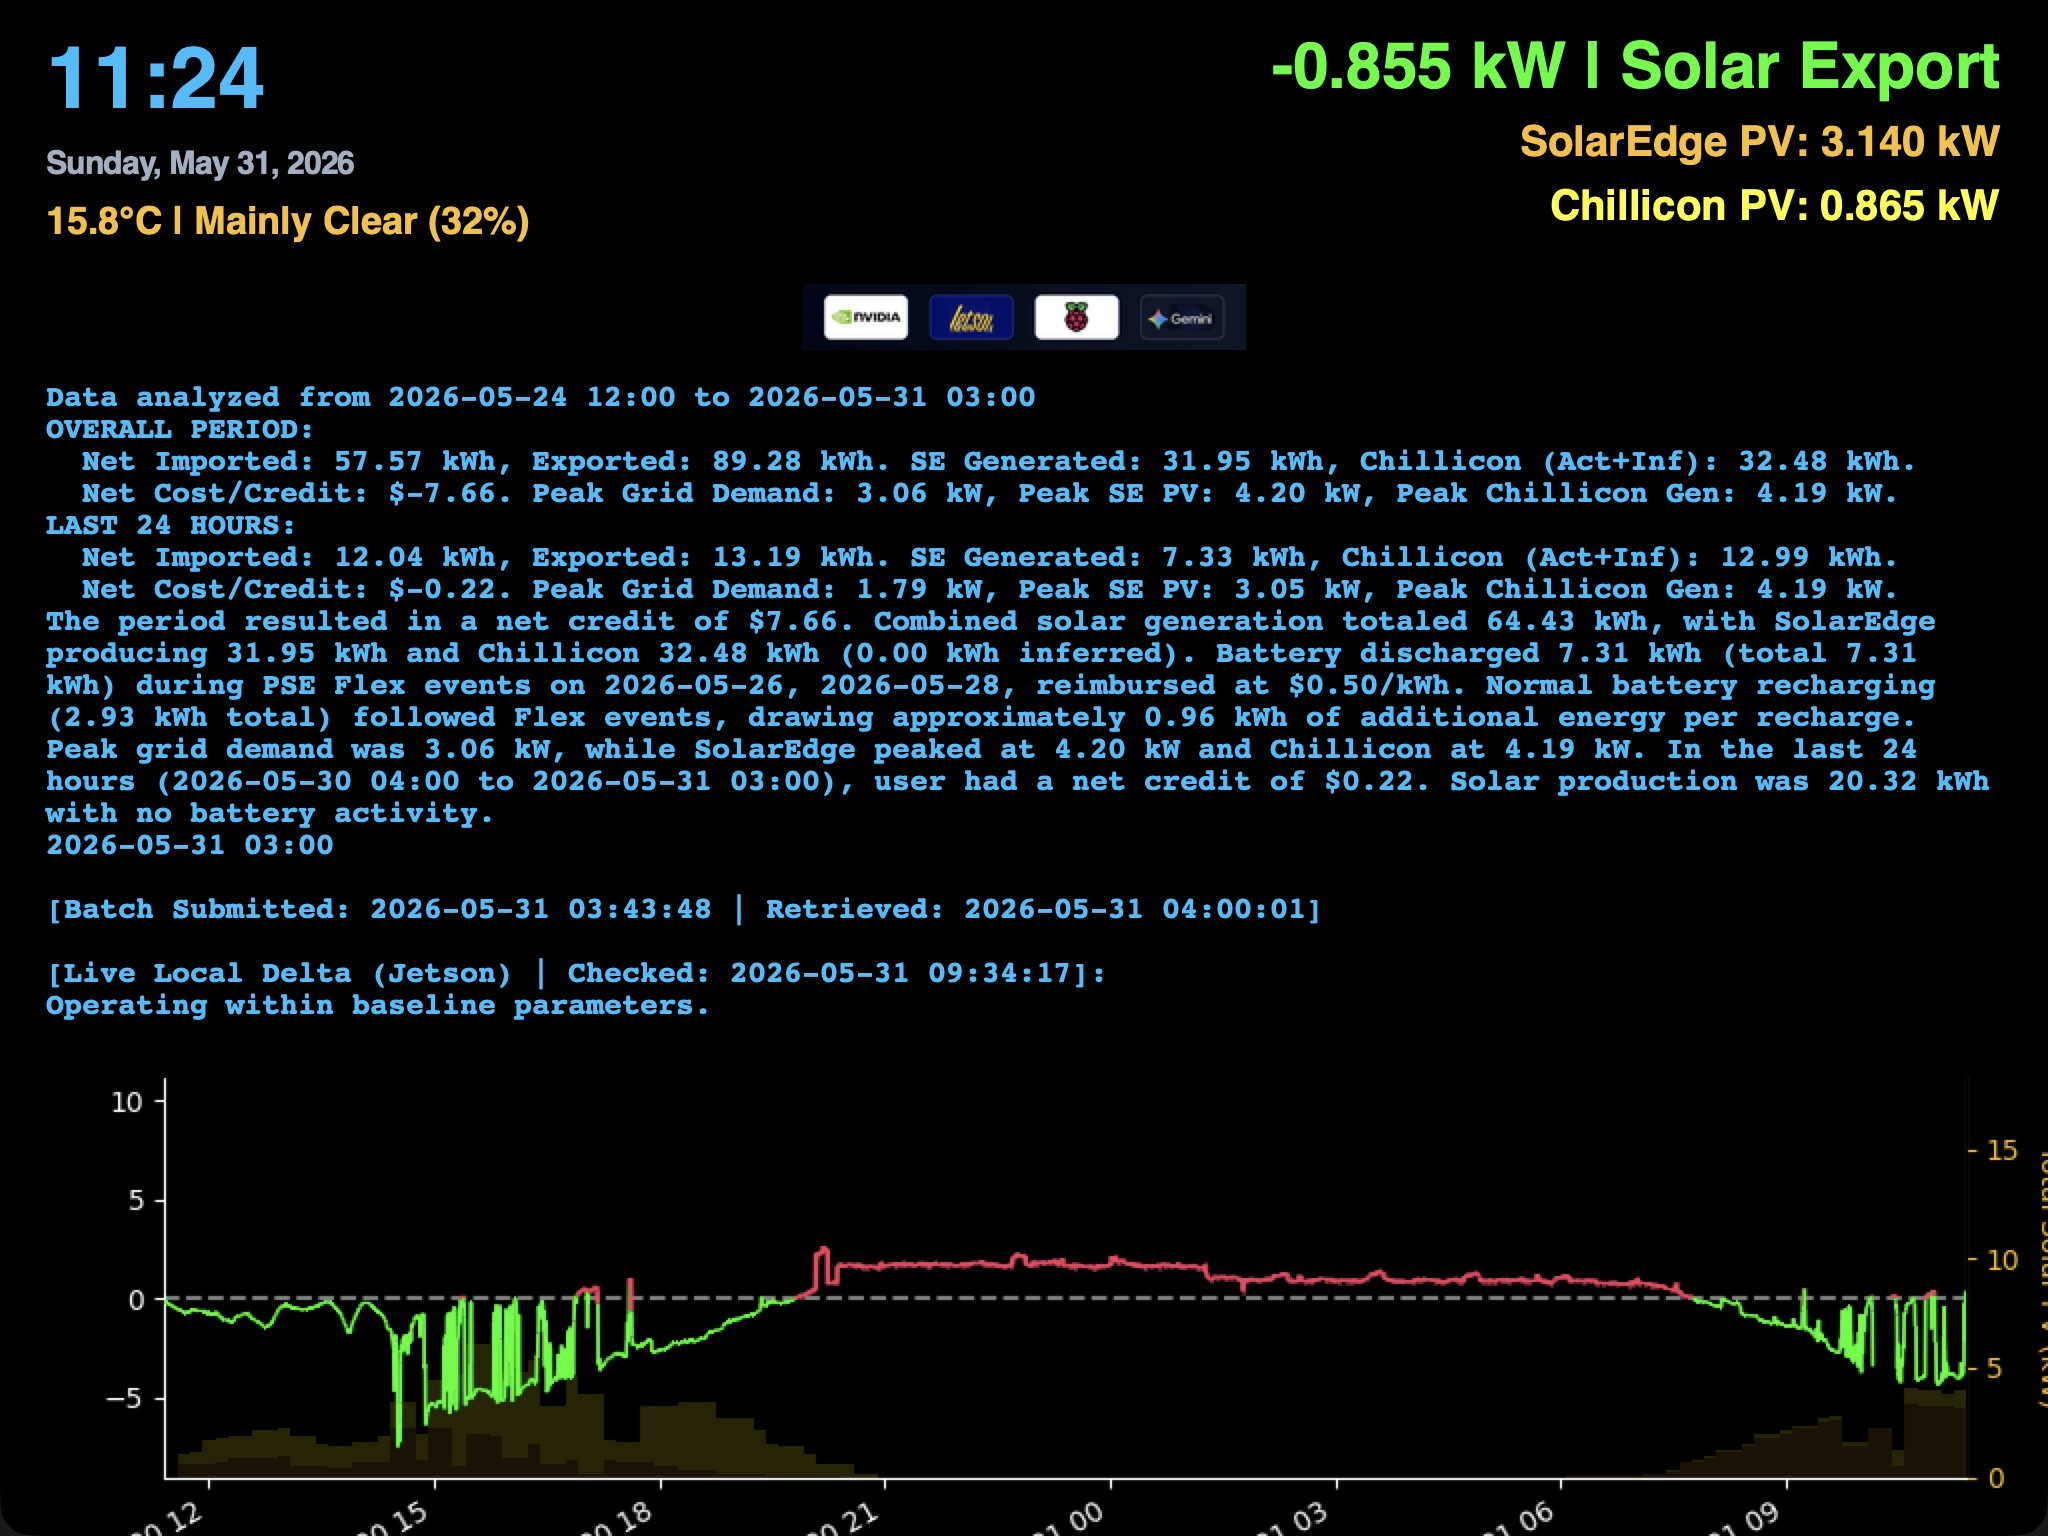
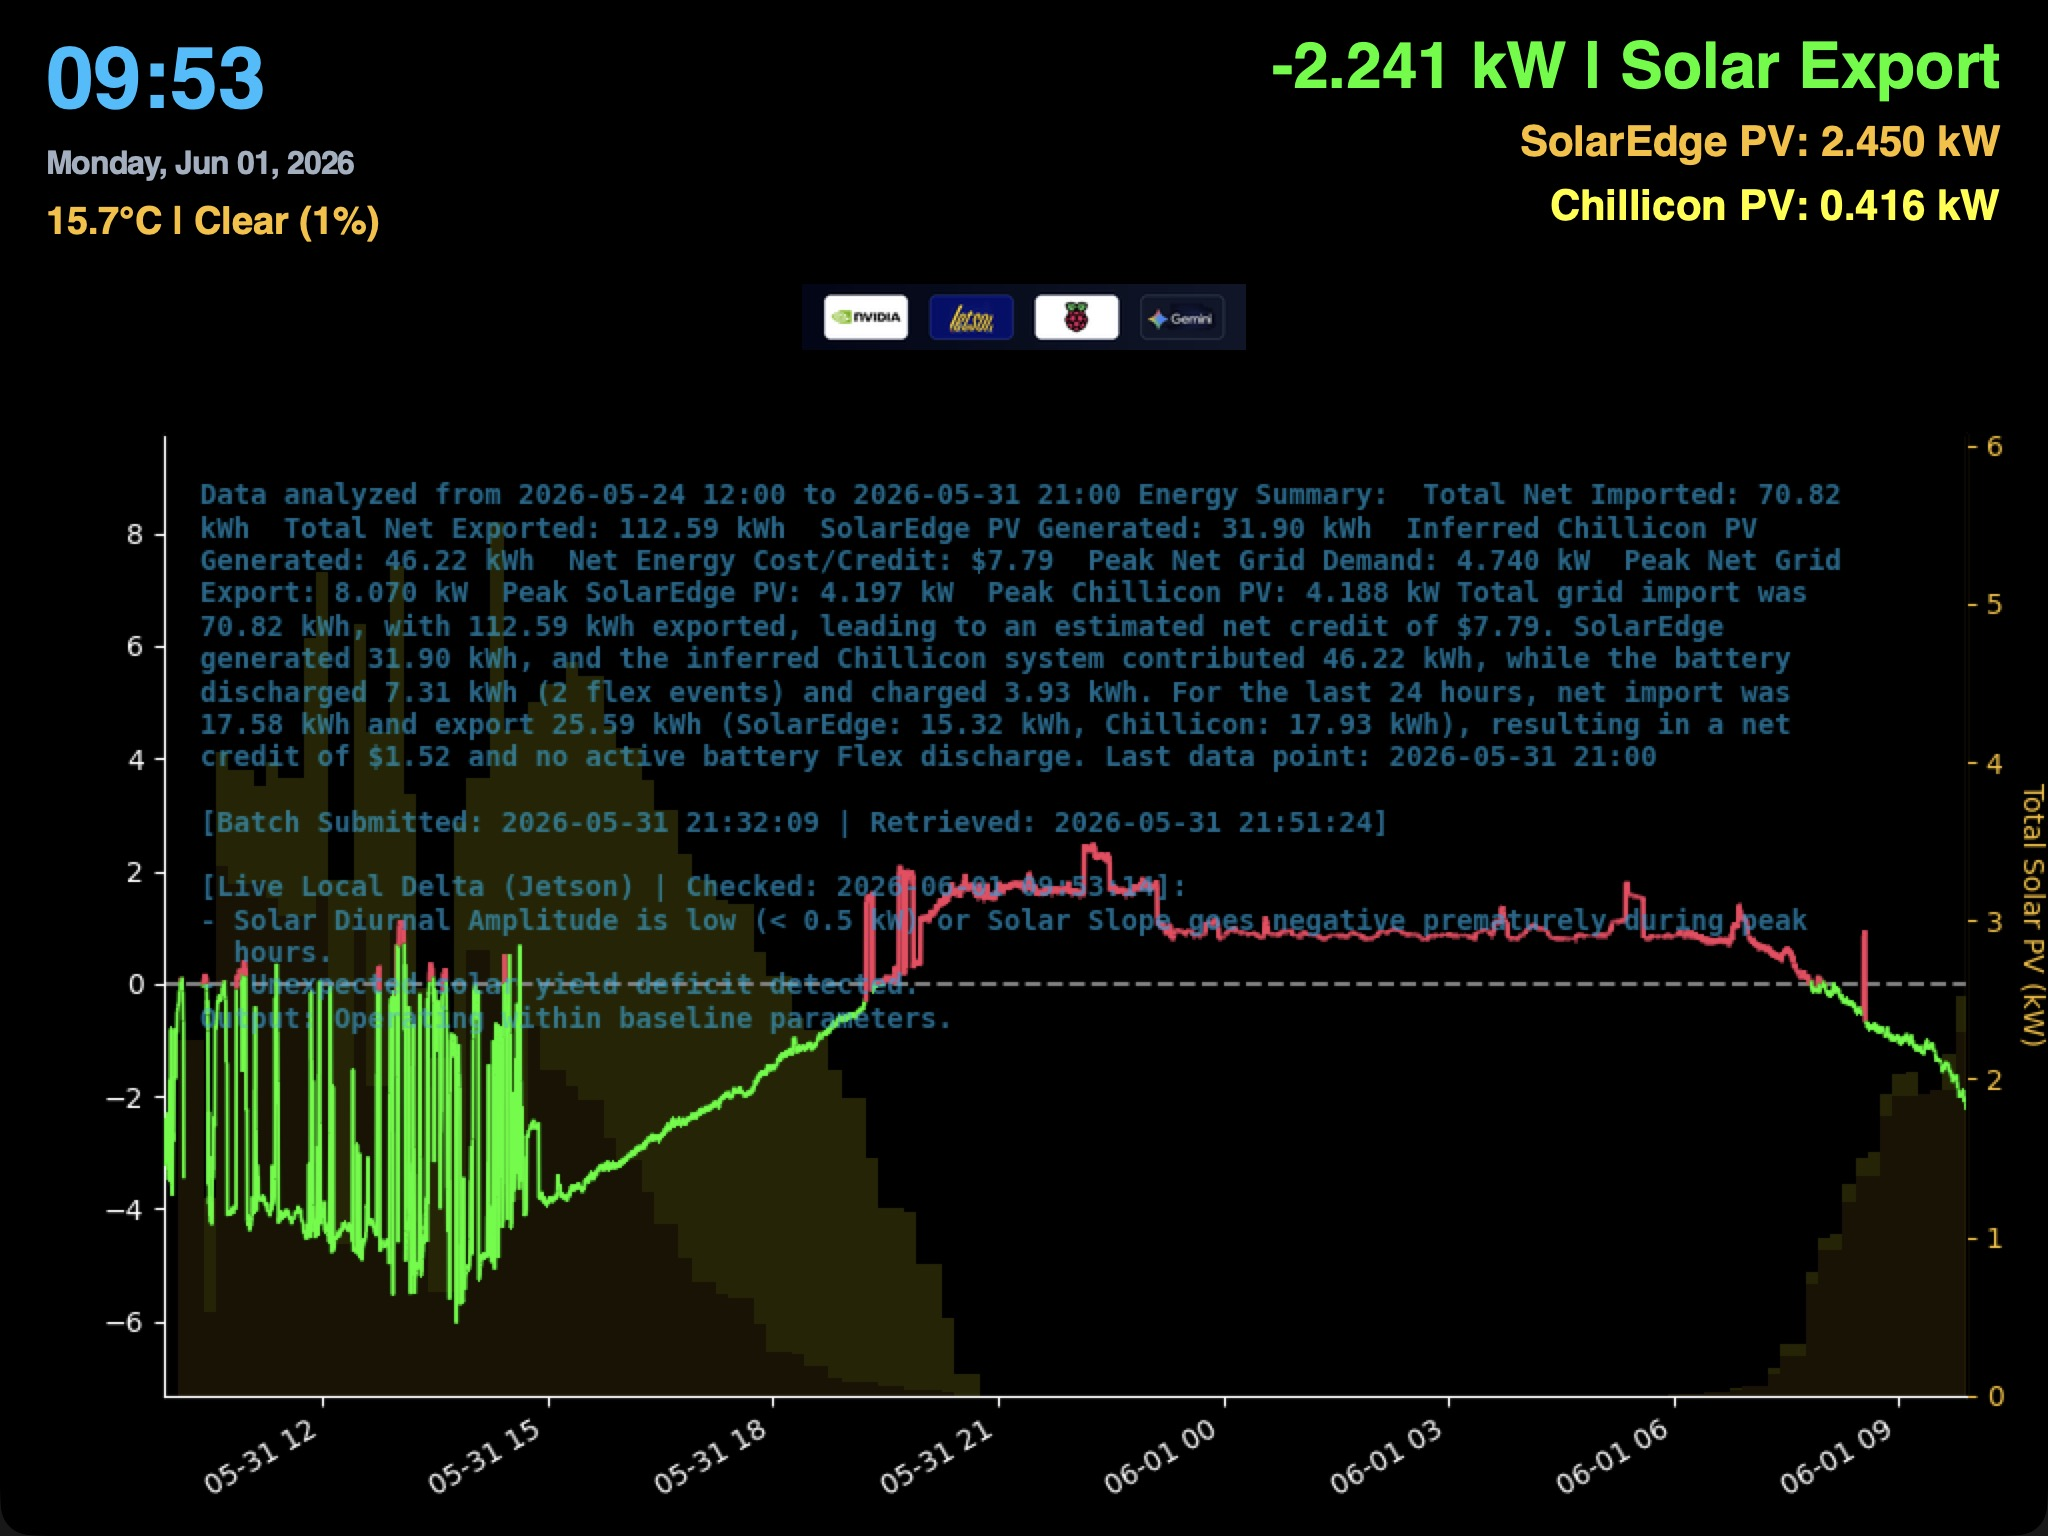
Revert Tkinter summary label packing, add transparent axis watermark overlays, update slide rotation timers (90s / 15s), and scale right solar Y-axis to 1.1x

diff --git a/render_local_plot.py b/render_local_plot.py
@@ -30,8 +30,8 @@ EXPECTED_SOLAR_COLOR: str = '#ffff00' # Bright yellow for expected weather-modul
 CONSUMPTION_COLOR: str = '#d946ef'    # Neon purple/magenta for household consumption
 
 # Slide Rotation Interval Settings (in milliseconds)
-SLIDE_1_DURATION_MS: int = 58000  # Stays up for 58 seconds to allow background processing
-SLIDE_2_DURATION_MS: int = 29000  # Stays up for 29 seconds
+SLIDE_1_DURATION_MS: int = 90000  # Stays up for 1.5 minutes
+SLIDE_2_DURATION_MS: int = 15000  # Stays up for 15 seconds
 
 
 # Load environment configuration if present
@@ -164,7 +164,8 @@ class OfflineViewer(tk.Tk):
             bg='black', fg=SUMMARY_COLOR, justify='left', anchor='nw',
             wraplength=980
         )
-        self.summary_label.pack(fill=tk.X, padx=20, pady=(5, 10))
+        # We do not pack the Tkinter summary label to prevent squishing the chart.
+        # Instead, the summary is overlaid directly inside the Matplotlib chart background.
 
         # Matplotlib figure setup - expanded size for two subplots
         self.fig: Figure = Figure(figsize=(8, 6), dpi=100, facecolor='black')
@@ -216,6 +217,32 @@ class OfflineViewer(tk.Tk):
         self.ax_freq.set_ylabel('Spectral Amplitude (kW)', color='white', fontsize=9)
         self.ax_freq.set_visible(False) # Invisible by default
 
+        # Background summary text watermark for Slide 1 (Time Domain)
+        self.summary_text_obj: Any = self.ax.text(
+            0.02, 0.95, "Awaiting AI Analysis...",
+            transform=self.ax.transAxes,
+            ha='left', va='top',
+            fontsize=SUMMARY_FONT_SIZE,
+            color=SUMMARY_COLOR,
+            alpha=SUMMARY_ALPHA,
+            fontfamily='monospace',
+            weight='bold',
+            zorder=10
+        )
+
+        # Background summary text watermark for Slide 2 (Frequency Domain)
+        self.summary_text_obj_freq: Any = self.ax_freq.text(
+            0.02, 0.95, "Awaiting Frequency Domain Analysis...",
+            transform=self.ax_freq.transAxes,
+            ha='left', va='top',
+            fontsize=SUMMARY_FONT_SIZE,
+            color=SUMMARY_COLOR,
+            alpha=SUMMARY_ALPHA,
+            fontfamily='monospace',
+            weight='bold',
+            zorder=10
+        )
+
         
         # State variables for Slide Rotation
         self.current_slide: int = 2 if "--slide2" in sys.argv else 1
@@ -244,7 +271,9 @@ class OfflineViewer(tk.Tk):
         if self.live_mode:
             self.after(2000, self.poll_remote_data)
             self.after(SLIDE_1_DURATION_MS, self.rotate_slides)
-        else:
+
+        # Capture screenshot only if explicitly requested on-demand
+        if "--screenshot" in sys.argv:
             self.after(1500, self.save_screenshot)
 
     def load_history(self) -> None:
@@ -462,7 +491,7 @@ class OfflineViewer(tk.Tk):
                     "solaredge_history.csv",
                     "chilicon_history.csv",
                     "solaredge_battery_history.csv",
-                    "merged_summary.json"
+                    "gemini_summary.json"
                 ]
                 
                 # Fetch each key file from Raspberry Pi
@@ -570,9 +599,7 @@ class OfflineViewer(tk.Tk):
         cloud_cover = live_weather.get("cloud_cover")
         
         # Determine cache file path and load summary
-        cache_file = 'merged_summary.json'
-        if not os.path.exists(cache_file):
-            cache_file = 'gemini_summary.json'
+        cache_file = 'gemini_summary.json'
             
         summary = ""
         dft_explanation = ""
@@ -594,6 +621,10 @@ class OfflineViewer(tk.Tk):
         # Select active summary based on current slide
         active_summary = self.local_time_text if self.current_slide == 1 else self.local_dft_text
         self.summary_label.config(text=active_summary)
+        
+        # Update matplotlib text watermarks
+        self.summary_text_obj.set_text(self.wrap_text(self.local_time_text))
+        self.summary_text_obj_freq.set_text(self.wrap_text(self.local_dft_text))
         
         # If live fetch failed, fallback to cache metrics
         if temp is None or wcode is None:
@@ -663,6 +694,8 @@ class OfflineViewer(tk.Tk):
 
 
     def wrap_text(self, text: str, width: int = 100) -> str:
+        # Clean up markdown code block indicators for a cleaner raw text presentation
+        text = text.replace("```json", "").replace("```", "")
         # Normalize carriage returns and other line endings to standard newlines
         text = text.replace('\r\n', '\n').replace('\r', '\n')
         paragraphs = text.split('\n\n')
@@ -921,13 +954,14 @@ class OfflineViewer(tk.Tk):
             
             if bar_times:
                 width_in_days = 10.0 / (24.0 * 60.0) # 10 minutes
+                bar_x = mdates.date2num(bar_times)
                 # Draw SolarEdge (bottom)
-                self.ax_bar.bar(bar_times, se_heights, width=width_in_days, color='#fbbf24', alpha=0.1, zorder=1, edgecolor='none')
+                self.ax_bar.bar(bar_x, se_heights, width=width_in_days, color='#fbbf24', alpha=0.1, zorder=1, edgecolor='none')
                 # Draw Chillicon (stacked on top of SolarEdge - bright neon yellow)
-                self.ax_bar.bar(bar_times, ch_heights, bottom=se_heights, width=width_in_days, color='#ffff00', alpha=0.15, zorder=1.5, edgecolor='none')
+                self.ax_bar.bar(bar_x, ch_heights, bottom=se_heights, width=width_in_days, color='#ffff00', alpha=0.15, zorder=1.5, edgecolor='none')
                 
                 max_power = max([s + c for s, c in zip(se_heights, ch_heights)]) if bar_times else 1.0
-                self.ax_bar.set_ylim(0, max_power * 3)
+                self.ax_bar.set_ylim(0, max_power * 1.1)
             else:
                 self.ax_bar.set_ylim(0, 10)
         
@@ -936,6 +970,7 @@ class OfflineViewer(tk.Tk):
             end_time = self.timestamps[-1]
             start_time = end_time - datetime.timedelta(hours=24)
             self.ax.set_xlim(start_time, end_time)
+            self.ax_bar.set_xlim(start_time, end_time)
         
         if self.usage:
             y_min = min(self.usage)
@@ -967,8 +1002,28 @@ class OfflineViewer(tk.Tk):
             self.ax_freq.axvline(1.0, color='deepskyblue', linestyle='--', alpha=0.5, label='24h Diurnal')
             self.ax_freq.axvline(2.0, color='violet', linestyle='--', alpha=0.5, label='12h Semi-Diurnal')
             self.ax_freq.set_xlim(0.1, 4.0)
+
+            # Increase top padding to leave the top portion of the plot free for text watermarks
+            max_amp = max(max(grid_amp), max(solar_amp), max(expected_solar_amp), max(consumption_amp)) if grid_amp else 1.0
+            self.ax_freq.set_ylim(0, max_amp * 1.85)
+
             self.ax_freq.grid(color='gray', linestyle=':', alpha=0.3)
             self.ax_freq.legend(facecolor='black', edgecolor='white', labelcolor='white', fontsize=8)
+
+        # Recreate the text watermark on ax_freq since it was cleared
+        self.summary_text_obj_freq = self.ax_freq.text(
+            0.02, 0.95, self.wrap_text(self.local_dft_text),
+            transform=self.ax_freq.transAxes,
+            ha='left', va='top',
+            fontsize=SUMMARY_FONT_SIZE,
+            color=SUMMARY_COLOR,
+            alpha=SUMMARY_ALPHA,
+            fontfamily='monospace',
+            weight='bold',
+            zorder=10
+        )
+        # Ensure twin axis x-limits are perfectly synchronized with the main axis
+        self.ax_bar.set_xlim(self.ax.get_xlim())
             
         self.fig.canvas.draw()
 

diff --git a/dashboard.py b/dashboard.py
@@ -77,8 +77,8 @@ EXPECTED_SOLAR_COLOR: str = '#ffff00' # Bright yellow for expected weather-modul
 CONSUMPTION_COLOR: str = '#d946ef'    # Neon purple/magenta for household consumption
 
 # Slide Rotation Interval Settings (in milliseconds)
-SLIDE_1_DURATION_MS: int = 58000  # Stays up for 58 seconds to allow background processing
-SLIDE_2_DURATION_MS: int = 19000  # Stays up for 19 seconds
+SLIDE_1_DURATION_MS: int = 90000  # Stays up for 1.5 minutes
+SLIDE_2_DURATION_MS: int = 15000  # Stays up for 15 seconds
 
 class GridDashboard(tk.Tk):
     """A fullscreen Tkinter dashboard application that visualizes real-time power grid usage.
@@ -267,7 +267,8 @@ class GridDashboard(tk.Tk):
             bg='black', fg=SUMMARY_COLOR, justify='left', anchor='nw',
             wraplength=1200
         )
-        self.summary_label.pack(fill=tk.X, padx=20, pady=(5, 10))
+        # We do not pack the Tkinter summary label to prevent squishing the chart.
+        # Instead, the summary is overlaid directly inside the Matplotlib chart background.
 
         # Matplotlib figure setup.
         self.fig: Figure = Figure(figsize=(5, 3), dpi=100, facecolor='black')
@@ -318,6 +319,32 @@ class GridDashboard(tk.Tk):
         self.ax_freq.set_xlabel('Frequency (Cycles per Day)', color='white', fontsize=9)
         self.ax_freq.set_ylabel('Spectral Amplitude (kW)', color='white', fontsize=9)
         self.ax_freq.set_visible(False) # Invisible by default
+
+        # Background summary text watermark for Slide 1 (Time Domain)
+        self.summary_text_obj: Any = self.ax.text(
+            0.02, 0.95, "Awaiting AI Analysis...",
+            transform=self.ax.transAxes,
+            ha='left', va='top',
+            fontsize=SUMMARY_FONT_SIZE,
+            color=SUMMARY_COLOR,
+            alpha=SUMMARY_ALPHA,
+            fontfamily='monospace',
+            weight='bold',
+            zorder=10
+        )
+
+        # Background summary text watermark for Slide 2 (Frequency Domain)
+        self.summary_text_obj_freq: Any = self.ax_freq.text(
+            0.02, 0.95, "Awaiting Frequency Domain Analysis...",
+            transform=self.ax_freq.transAxes,
+            ha='left', va='top',
+            fontsize=SUMMARY_FONT_SIZE,
+            color=SUMMARY_COLOR,
+            alpha=SUMMARY_ALPHA,
+            fontfamily='monospace',
+            weight='bold',
+            zorder=10
+        )
         
         # State variables for Slide Rotation
         self.current_slide: int = 1
@@ -1508,7 +1535,7 @@ class GridDashboard(tk.Tk):
                         self.ax_bar.bar(bar_times, ch_heights, bottom=se_heights, width=width_in_days, color='#ffff00', alpha=0.15, zorder=1.5, edgecolor='none')
                         
                         max_power = max([s + c for s, c in zip(se_heights, ch_heights)]) if bar_times else 1.0
-                        self.ax_bar.set_ylim(0, max_power * 3)
+                        self.ax_bar.set_ylim(0, max_power * 1.1)
                     else:
                         self.ax_bar.set_ylim(0, 10)
                     self.solar_bars_dirty = False
@@ -2159,6 +2186,8 @@ class GridDashboard(tk.Tk):
         Returns:
             The wrapped text block with line breaks inserted.
         """
+        # Clean up markdown code block indicators for a cleaner raw text presentation
+        text = text.replace("```json", "").replace("```", "")
         # Normalize carriage returns and other line endings to standard newlines
         text = text.replace('\r\n', '\n').replace('\r', '\n')
         paragraphs = text.split('\n\n')
@@ -2201,7 +2230,7 @@ class GridDashboard(tk.Tk):
         self.update_summary_display()
 
     def update_summary_display(self) -> None:
-        """Merges baseline and local delta summaries and renders them in the Tkinter label widget."""
+        """Merges baseline and local delta summaries and renders them in the Tkinter widget and Matplotlib text overlays."""
         full_text = ""
         if self.current_slide == 1:
             if hasattr(self, 'baseline_text') and self.baseline_text:
@@ -2223,6 +2252,25 @@ class GridDashboard(tk.Tk):
                 full_text = "Awaiting Frequency Domain Analysis..."
                 
         self.summary_label.config(text=full_text)
+
+        # Merge time domain text for Slide 1 watermark
+        time_domain_text = ""
+        if hasattr(self, 'baseline_text') and self.baseline_text:
+            clean_baseline = self.baseline_text.strip()
+            marker = "[Live Local Delta (Jetson)"
+            if marker in clean_baseline:
+                clean_baseline = clean_baseline.split(marker)[0].strip()
+            time_domain_text += clean_baseline
+        if hasattr(self, 'local_delta_text') and self.local_delta_text:
+            if time_domain_text:
+                time_domain_text += "\n\n"
+            time_domain_text += self.local_delta_text.strip()
+
+        # Update matplotlib text watermarks
+        self.summary_text_obj.set_text(self.wrap_text(time_domain_text))
+        dft_text = self.local_dft_text if hasattr(self, 'local_dft_text') else ""
+        self.summary_text_obj_freq.set_text(self.wrap_text(dft_text))
+
         self.fig.canvas.draw_idle()
         
         # Save the merged summary to disk for offline viewing tools (view_dashboard.sh)
